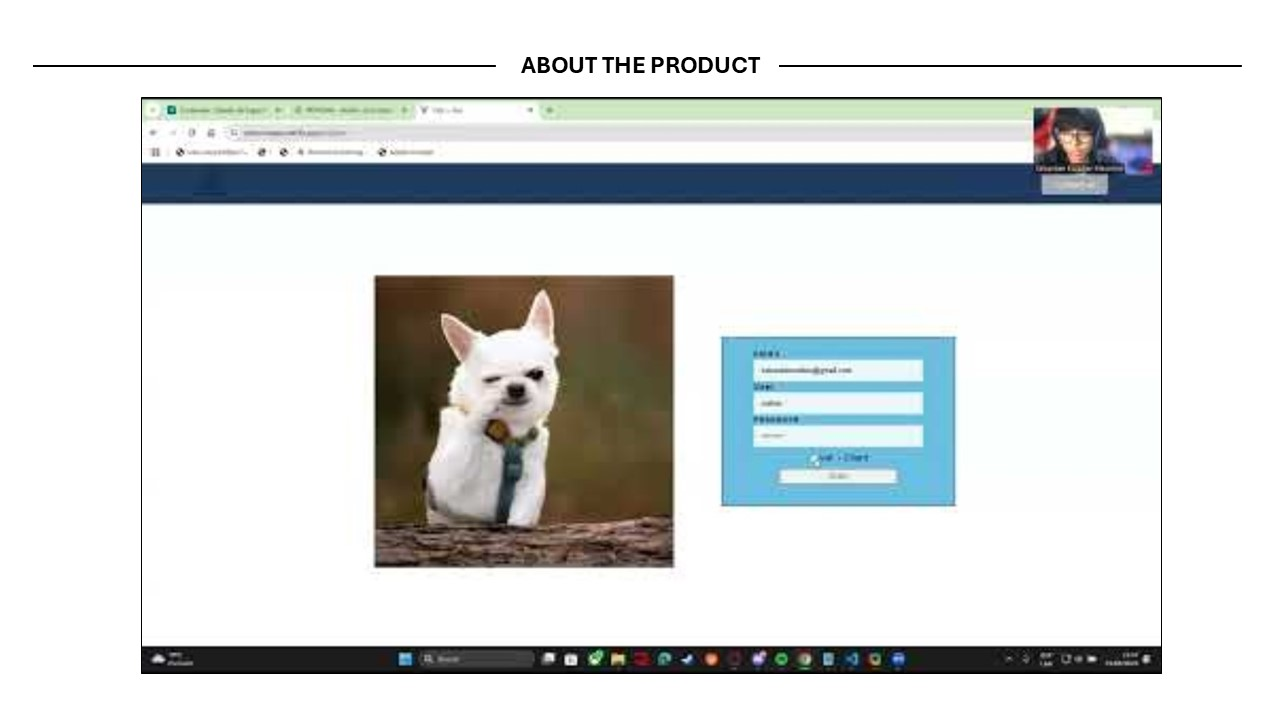
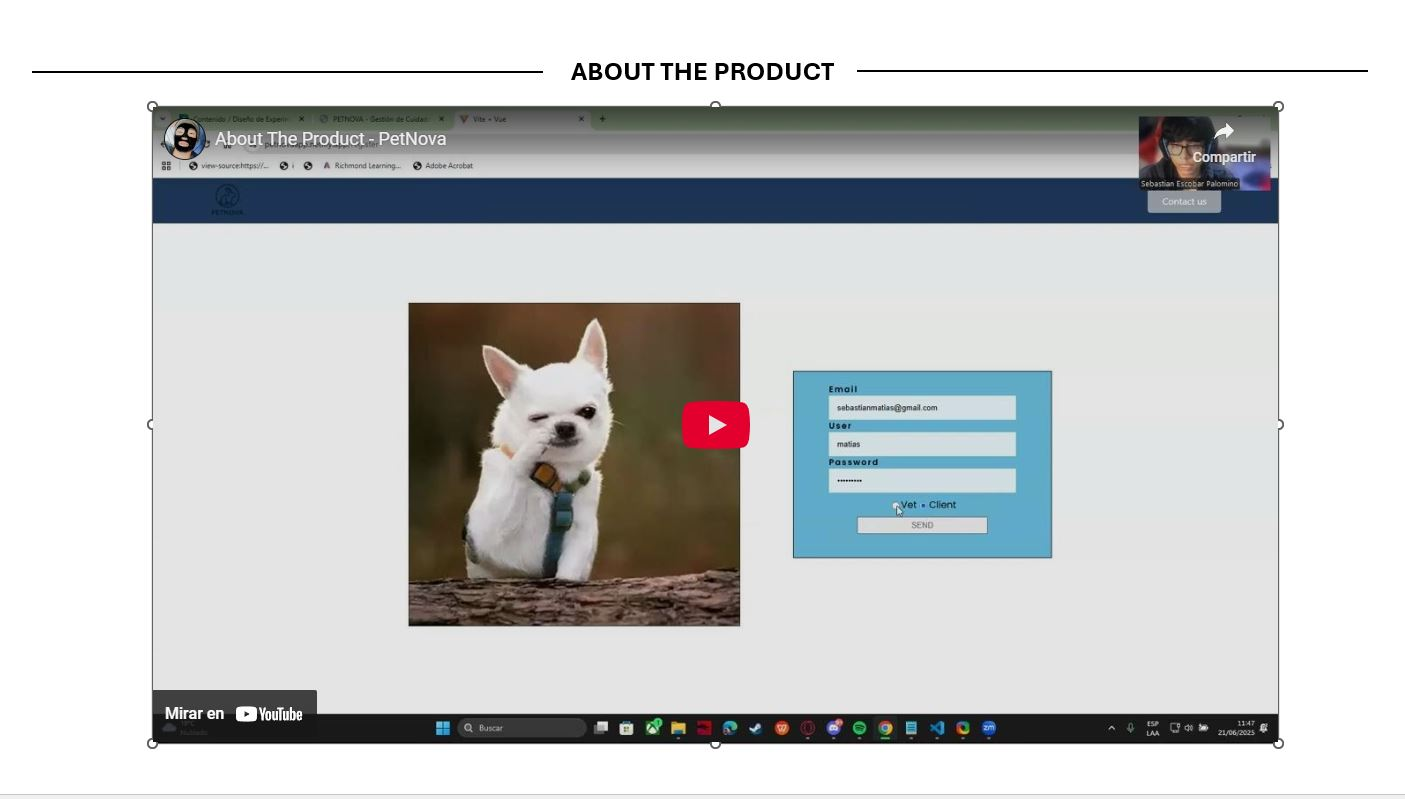
Feature: Add link to img about the product

diff --git a/feature/Chapter05.md b/feature/Chapter05.md
@@ -709,11 +709,11 @@ Enlace del deployment de la Landing Page: [https://1asi0730-2510-4370-g4-petnova
 
 **Seccion video about the team en landing page**
 
-<img src="./assets/Chapter05/landingvideo1.png">
+[![About the team video](IMAGEN FALTA)](FALTA LINK DEL VIDEO)
 
 **Seccion video about the product en landing page**
 
-<img src="./assets/Chapter05/about_the_product.jpg">
+[![About the product video](./assets/Chapter05/about_the_product.JPG)](https://www.youtube.com/watch?v=21mBKrna1iw)
 
 #### 5.3.3. Evaluación Basada en Heurísticas
 
